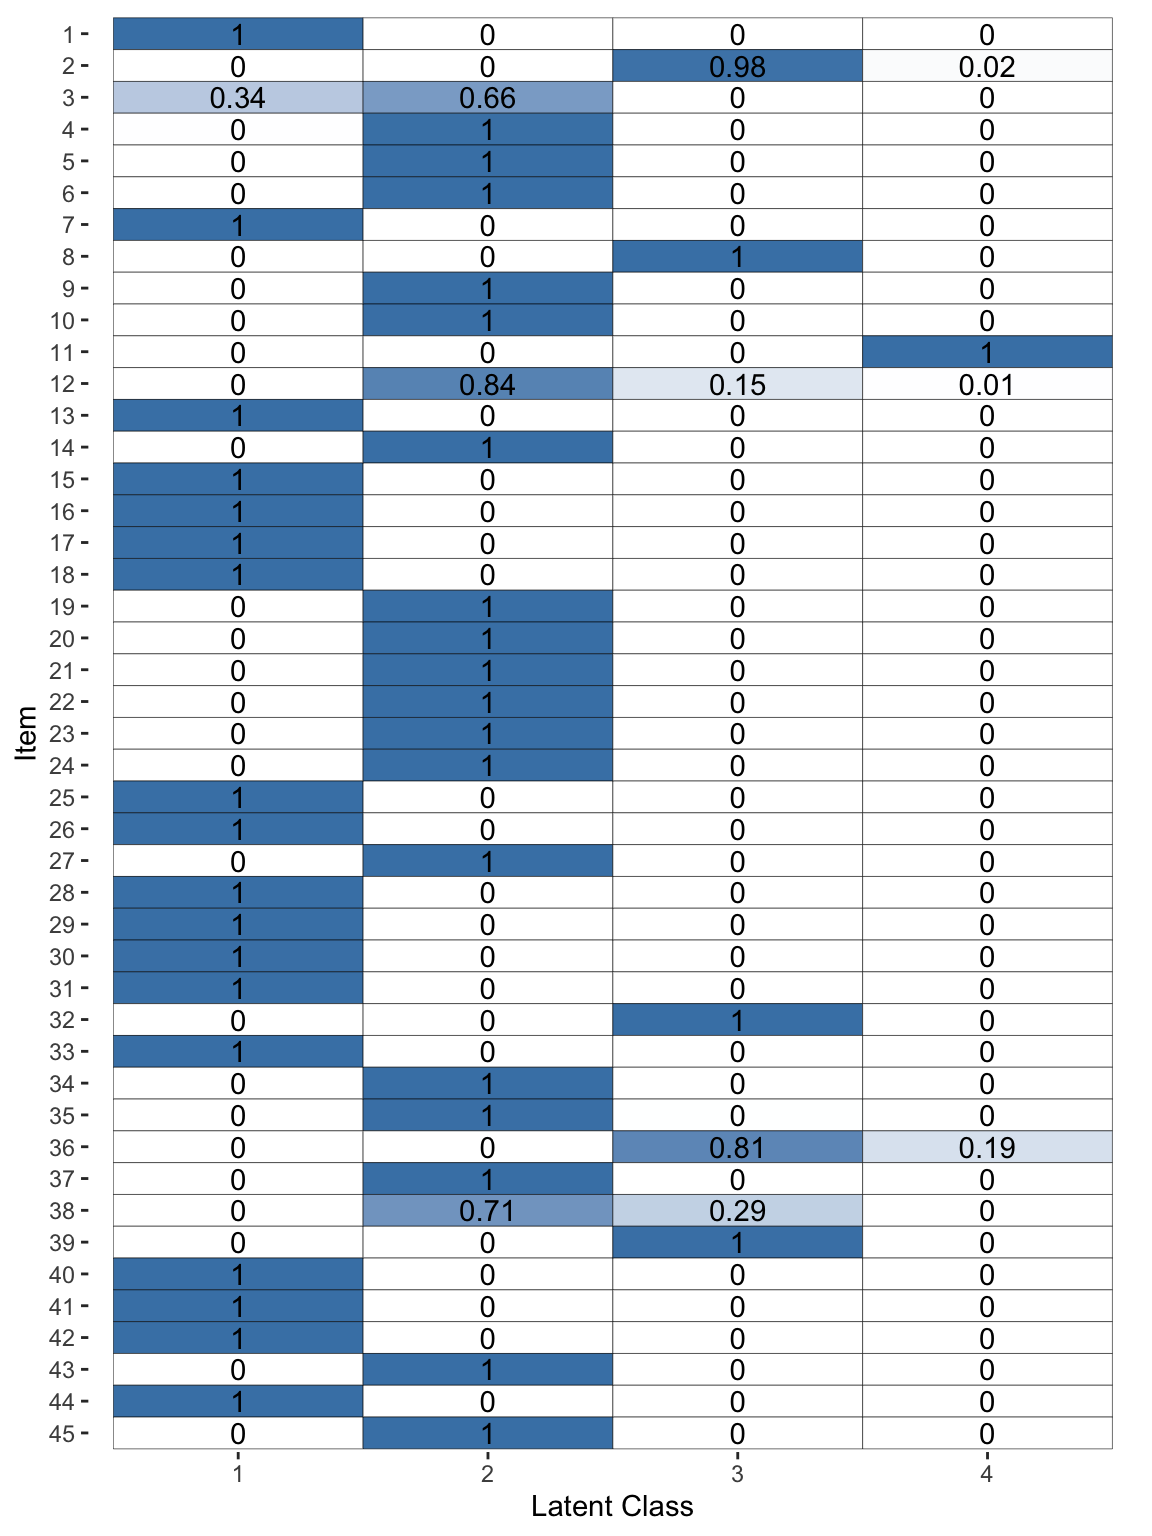
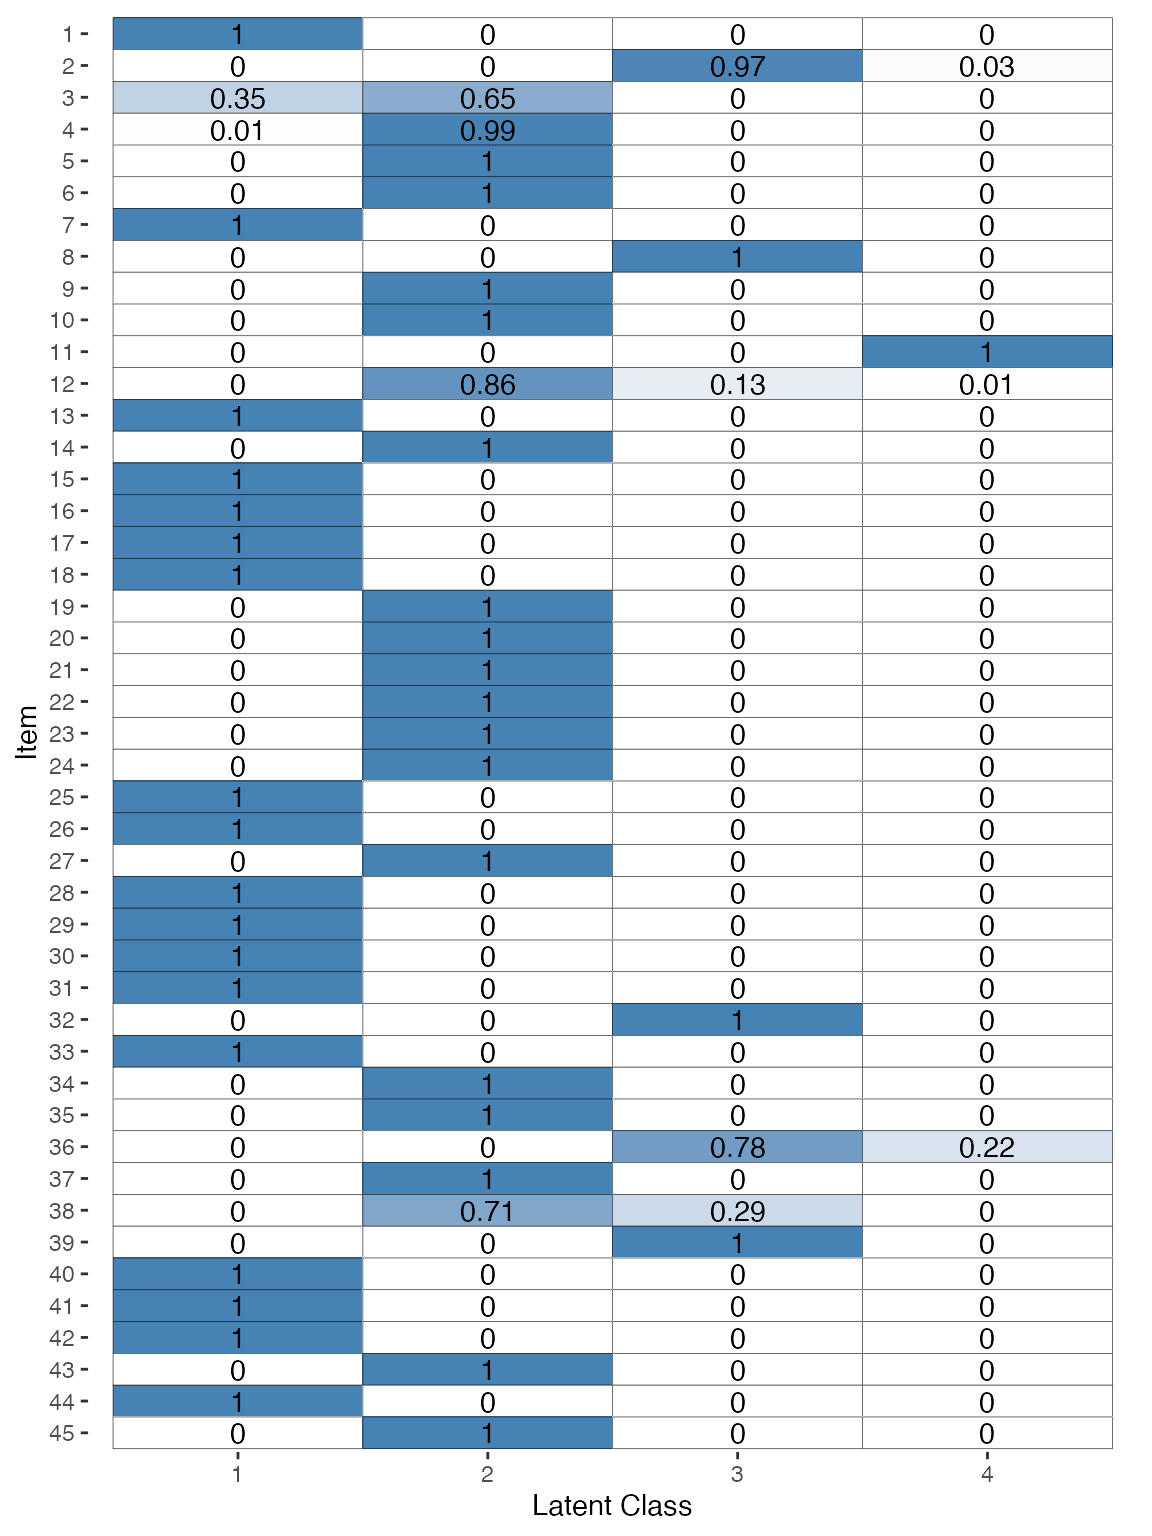
Built site for rater: 0.1.9001@fe73dc3

diff --git a/articles/workflow.html b/articles/workflow.html
@@ -165,7 +165,7 @@
 <span class="fu"><a href="../reference/point_estimate.html">point_estimate</a></span>(<span class="kw">fit</span>, pars = <span class="st">"pi"</span>)
 </pre></div>
 <pre><code>#&gt; $pi
-#&gt; [1] 0.37267600 0.40721049 0.14574093 0.07437258</code></pre>
+#&gt; [1] 0.37370790 0.40838968 0.14367113 0.07423128</code></pre>
 <p>Note that the interpretation of the point estimates returned will differ depending on whether the model has been fit using MCMC or optimisation.</p>
 </div>
 <div id="other-functions" class="section level2">

diff --git a/reference/rater.html b/reference/rater.html
@@ -213,6 +213,7 @@ are run be default with 2000 iterations in total each.</p>
 <span class='kw'>grouped_fit</span> <span class='op'>&lt;-</span> <span class='fu'>rater</span>(<span class='kw'>caries</span>, <span class='fu'><a href='models.html'>dawid_skene</a></span>(), data_format = <span class='st'>"grouped"</span>)
 
 }
+
 </div></pre>
   </div>
   <div class="col-md-3 hidden-xs hidden-sm" id="pkgdown-sidebar">

diff --git a/reference/posterior_samples.html b/reference/posterior_samples.html
@@ -174,6 +174,7 @@ for the latent class due to the marginalisation technique used internally.</p>
 <span class='kw'>pi_samples</span> <span class='op'>&lt;-</span> <span class='fu'>posterior_samples</span>(<span class='kw'>fit</span>, pars = <span class='st'>"pi"</span>)
 
 }
+
 </div></pre>
   </div>
   <div class="col-md-3 hidden-xs hidden-sm" id="pkgdown-sidebar">

diff --git a/reference/point_estimate.html b/reference/point_estimate.html
@@ -181,6 +181,7 @@ posterior distributions of the latent class use <code><a href='class_probabiliti
 <span class='kw'>map_estimate</span> <span class='op'>&lt;-</span> <span class='fu'>point_estimate</span>(<span class='kw'>optim_fit</span>)
 
 }
+
 </div></pre>
   </div>
   <div class="col-md-3 hidden-xs hidden-sm" id="pkgdown-sidebar">

diff --git a/reference/plot.rater_fit.html b/reference/plot.rater_fit.html
@@ -170,6 +170,7 @@ are requested a list of ggplot2 plots.</p>
 <span class='fu'><a href='https://rdrr.io/r/graphics/plot.default.html'>plot</a></span>(<span class='kw'>fit</span>, pars = <span class='st'>"pi"</span>)
 
 }
+
 </div></pre>
   </div>
   <div class="col-md-3 hidden-xs hidden-sm" id="pkgdown-sidebar">

diff --git a/reference/posterior_interval.mcmc_fit.html b/reference/posterior_interval.mcmc_fit.html
@@ -178,6 +178,7 @@ of the latent class can be extracted using <a href='class_probabilities.html'>cl
 <span class='fu'><a href='https://rdrr.io/r/utils/head.html'>head</a></span>(<span class='kw'>intervals</span>)
 
 }
+
 </div></pre>
   </div>
   <div class="col-md-3 hidden-xs hidden-sm" id="pkgdown-sidebar">

diff --git a/reference/mcmc_diagnostics.html b/reference/mcmc_diagnostics.html
@@ -179,6 +179,7 @@ MCMC. <em>arXiv preprint</em> <code>arXiv:1903.08008</code>.</p>
 <span class='fu'>mcmc_diagnostics</span>(<span class='kw'>fit</span>, pars = <span class='st'>"pi"</span>)
 
 }
+
 </div></pre>
   </div>
   <div class="col-md-3 hidden-xs hidden-sm" id="pkgdown-sidebar">

diff --git a/reference/class_probabilities.html b/reference/class_probabilities.html
@@ -171,6 +171,7 @@ and the data. Averaging these conditional probabilities gives the
 <span class='fu'>class_probabilities</span>(<span class='kw'>fit</span>)
 
 }
+
 </div></pre>
   </div>
   <div class="col-md-3 hidden-xs hidden-sm" id="pkgdown-sidebar">
